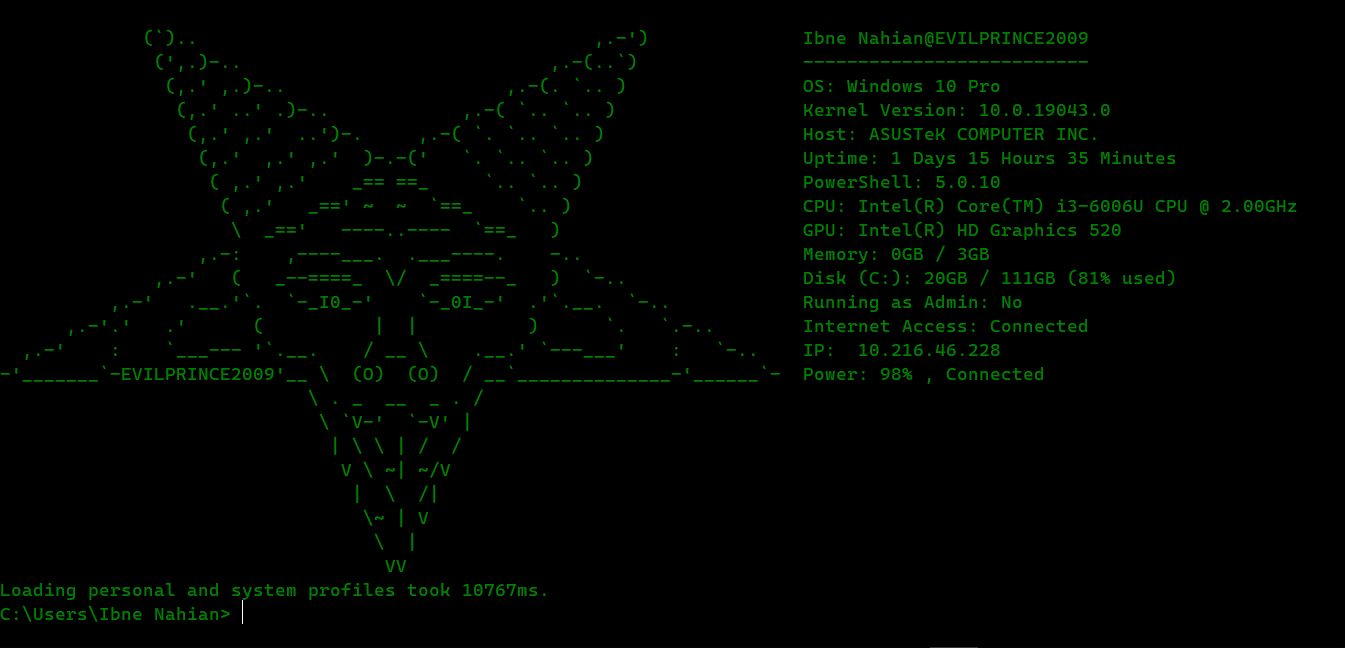
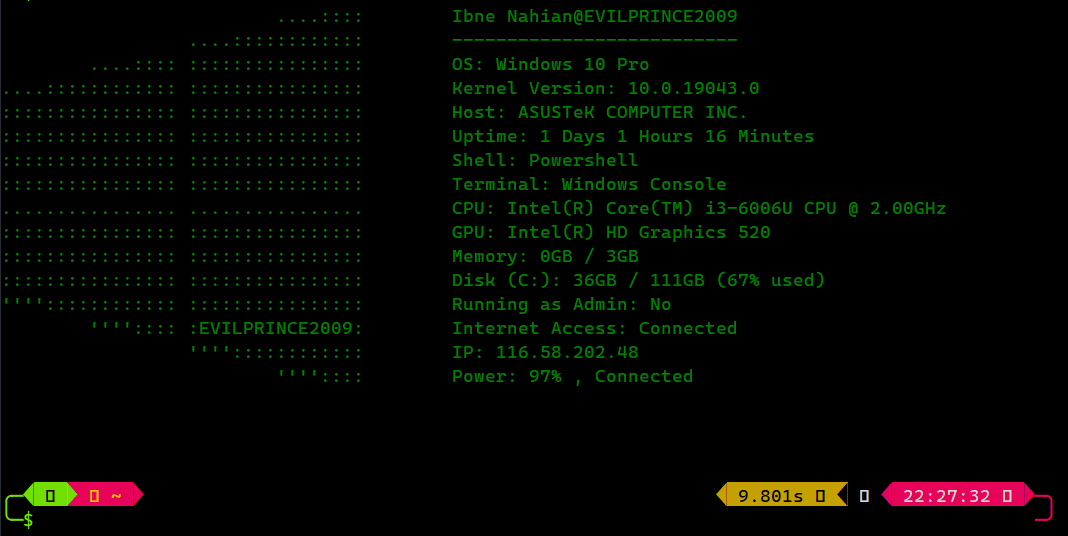
code retouch

diff --git a/DotFetch.NET/Implementation/InformationGenerator.cs b/DotFetch.NET/Implementation/InformationGenerator.cs
@@ -57,6 +57,7 @@ namespace DotFetch.NET.Implementation
         {
             string buffer = ParentProcess().Parent().ProcessName;
             string terminal = $"{buffer[..1].ToUpper()}{buffer[1..]}";
+            if (terminal == "Explorer") terminal = "Windows Console";
             return $"Terminal: {terminal}";
         }
 

diff --git a/DotFetch.NET/Program.cs b/DotFetch.NET/Program.cs
@@ -1,7 +1,4 @@
 using System;
-using System.Diagnostics;
-using System.Linq;
-using System.Management;
 using DotFetch.NET.Implementation;
 
 namespace DotFetch.NET
